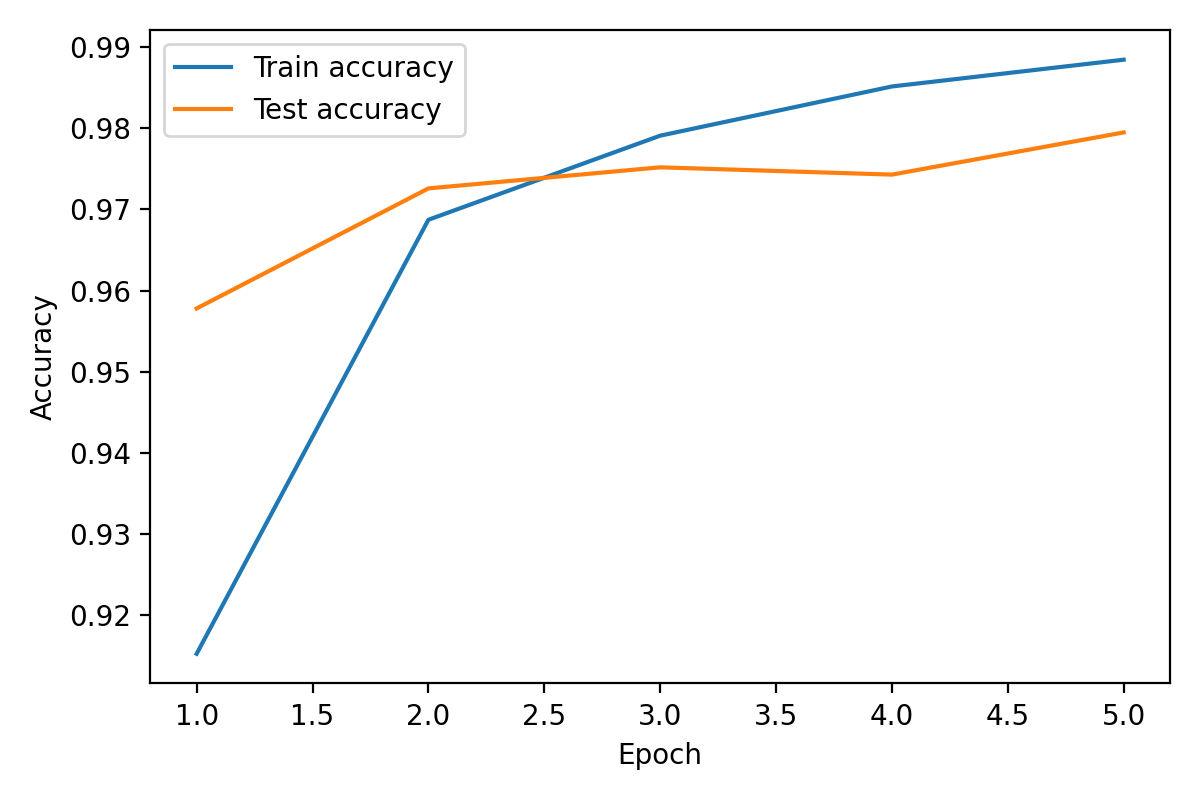
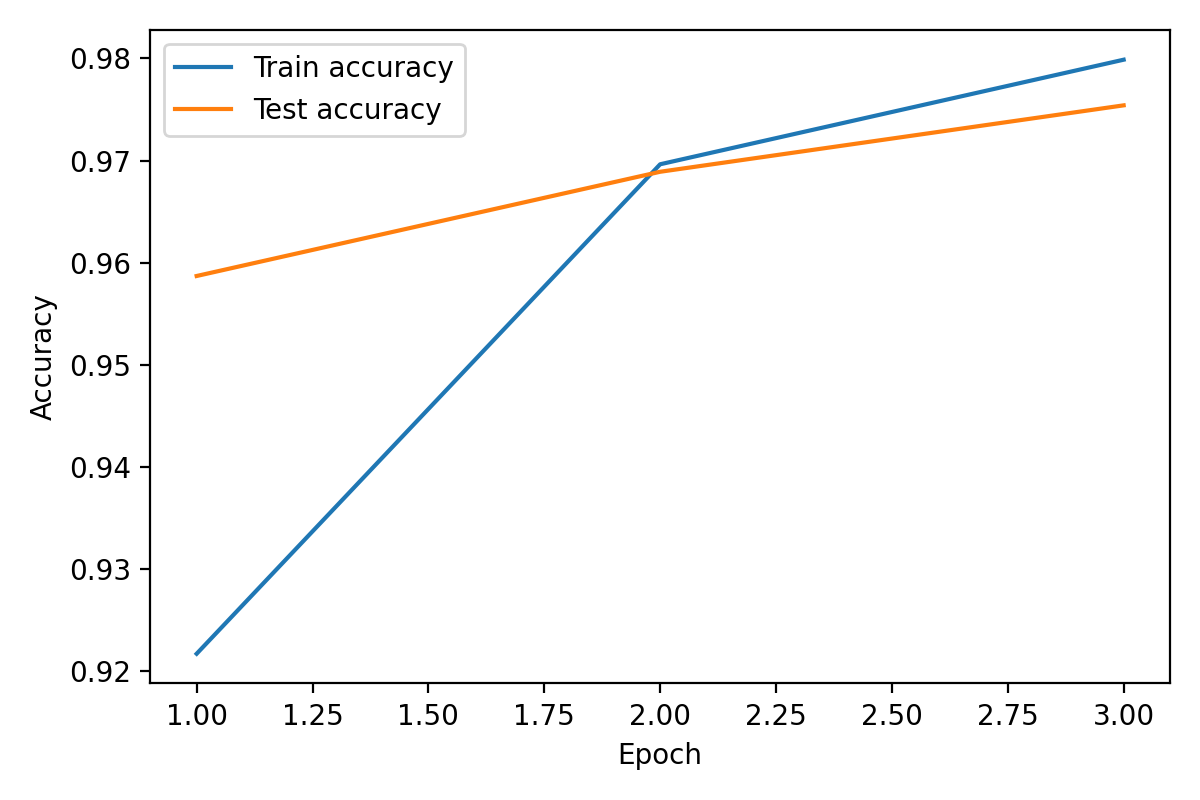
Added a smoke test for the training.py file, and added comment on the test_fcn.py file

diff --git a/tests/test_smoke_training.py b/tests/test_smoke_training.py
@@ -1,0 +1,52 @@
+"""
+This test is a small sanity check for the training pipeline.
+
+What this test checks:
+- The training loop (train_one_epoch) can run on a small subset of MNIST without errors
+- The evaluation loop (evaluate) can run without errors
+- Both functions return numeric values
+- Loss values are non-negative
+- Accuracy values are in the range [0, 1]
+
+What this test does NOT check:
+- That the model reaches a specific accuracy
+- That loss decreases over multiple epochs
+- That one number of epochs is better than another
+
+These results depend on randomness, data order, and hardware, and are therefore
+not suitable for strict automated testing.
+"""
+
+import torch
+import torch.nn as nn
+from torch.utils.data import DataLoader, Subset
+from torchvision import datasets, transforms
+
+from src.fcn import FCN
+from src.training import train_one_epoch, evaluate
+
+
+def test_training_and_eval_runs_on_small_subset(tmp_path):
+    device = torch.device("cpu")
+    
+    # Small subset from dataset to keep the test fast
+    transform = transforms.ToTensor()
+    ds = datasets.MNIST(root=tmp_path, train=True, download=True, transform=transform)
+    small_ds = Subset(ds, range(256)) # Subset
+    
+    train_loader = DataLoader(small_ds, batch_size=64, shuffle=True)
+    test_loader = DataLoader(small_ds, batch_size=64, shuffle=False)
+    
+    model = FCN(in_dim=28 * 28, hidden_dims=[64], out_dim=10).to(device)
+    
+    loss_fn = nn.CrossEntropyLoss()
+    optimizer = torch.optim.Adam(model.parameters(), lr=1e-3)
+    
+    train_loss, train_accuracy = train_one_epoch(model, train_loader, optimizer, loss_fn, device)
+    test_loss, test_accuracy = evaluate(model, test_loader, loss_fn, device)
+    
+    # Sanity Checks
+    assert isinstance(train_loss, float)
+    assert isinstance(test_loss, float)
+    assert 0.0 <= train_accuracy <= 1.0
+    assert 0.0 <= test_accuracy <= 1.0

diff --git a/tests/test_fcn.py b/tests/test_fcn.py
@@ -1,3 +1,19 @@
+"""
+These tests verify the basic structure and behavior of the FCN model.
+
+What these tests check:
+- The model accepts image-shaped input (N, 1, 28, 28) and produces output
+  with shape (N, number_of_classes)
+- The model also accepts flat vector input (N, in_dim) and produces correct
+  output shape
+- The model contains the expected number of Linear layers based on the
+  specified hidden dimensions
+
+These tests ensure that the FCN forward pass and network structure behave
+as expected.
+"""
+
+
 import torch
 import torch.nn as nn
 from src.fcn import FCN

diff --git a/src/training.py b/src/training.py
@@ -168,7 +168,7 @@ def main():
     
     
     # Training loop
-    epochs = 5
+    epochs = 3 # After reviewing the plots, epochs = 3 was the best option for this dataset
     best_test_accuracy = 0.0
     
     train_losses = []
